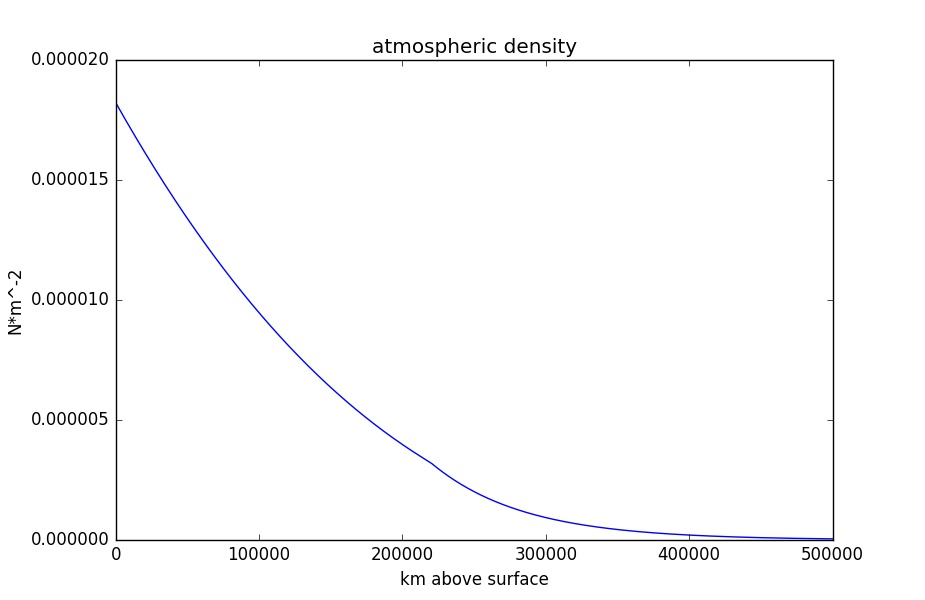
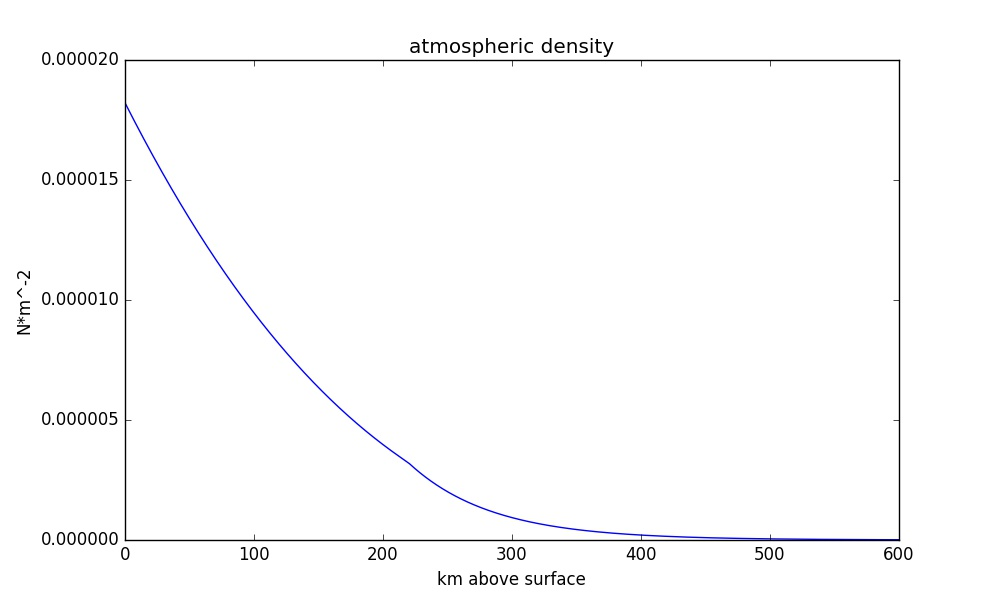
tweaked range of distance I checked for. and printed density at the end.

diff --git a/atmosphere.py b/atmosphere.py
@@ -22,7 +22,7 @@ M = MSS.p_mass(myss, 1) * M_sol # converting to kg
 R = MSS.p_radius(myss, 1)*1e3
 
 nr = 1000000 #1000000 #1e6 number of steps
-r = np.linspace(R,R+500e3, nr) #m | distance from surface to end 
+r = np.linspace(R,R+600e3, nr) #m | distance from surface to end 
 #dr = 200e3/nr
 P = np.zeros(nr)
 T = np.zeros(nr)
@@ -55,8 +55,10 @@ print 'T[ii]', type(T[ii]), T[ii]
 print 'r[ii]', type(r[ii]), r[ii]
 print 'M', type(M), M
 rho = P*mu*mH/k/T
+print 'rho[ii]', type(rho[ii]), rho[ii]
 
 r_ = r-R
+r_ = r_*1e-3
 plt.plot(r_, rho)
 plt.title('atmospheric density')
 plt.xlabel('km above surface')
@@ -65,14 +67,18 @@ plt.show()
 
 """
 run example:
+    homeplanet is planet 0
+    mass of planets, [solar masses]
+    radi of planets, [km]
     1
-    P[i] <type 'numpy.float64'> 1.40867173914
-    T[i] <type 'numpy.float64'> 280.999672804
-    r[i] <type 'numpy.float64'> 9327652.34279
+    P[i] <type 'numpy.float64'> 1.40867059095
+    T[i] <type 'numpy.float64'> 280.999607365
+    r[i] <type 'numpy.float64'> 9327652.44279
     M <type 'numpy.float64'> 1.79683818763e+25
-    999998      
-    P[ii] <type 'numpy.float64'> 0.00180090111441
-    T[ii] <type 'numpy.float64'> 140.499932872
-    r[ii] <type 'numpy.float64'> 9827651.34279
+    999998
+    P[ii] <type 'numpy.float64'> 0.00042087020128
+    T[ii] <type 'numpy.float64'> 140.499938588
+    r[ii] <type 'numpy.float64'> 9927651.24279
     M <type 'numpy.float64'> 1.79683818763e+25
+    rho[ii] <type 'numpy.float64'> 1.0892921753e-08
 """
